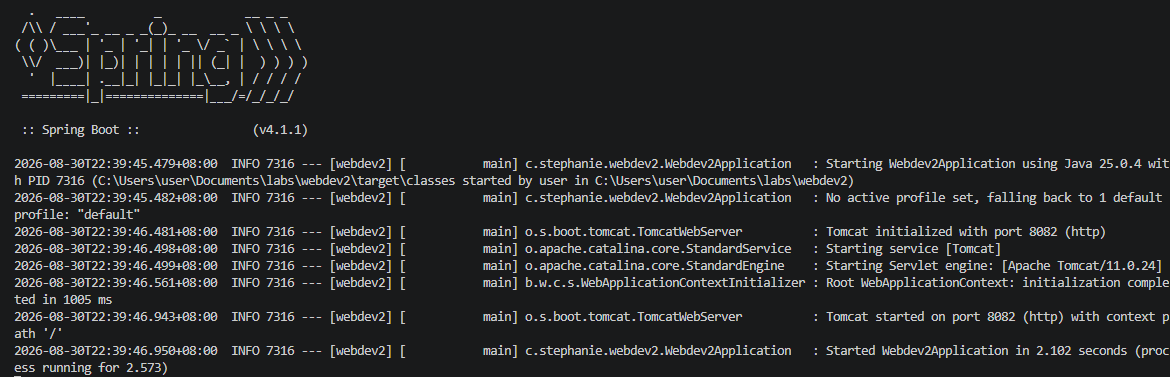
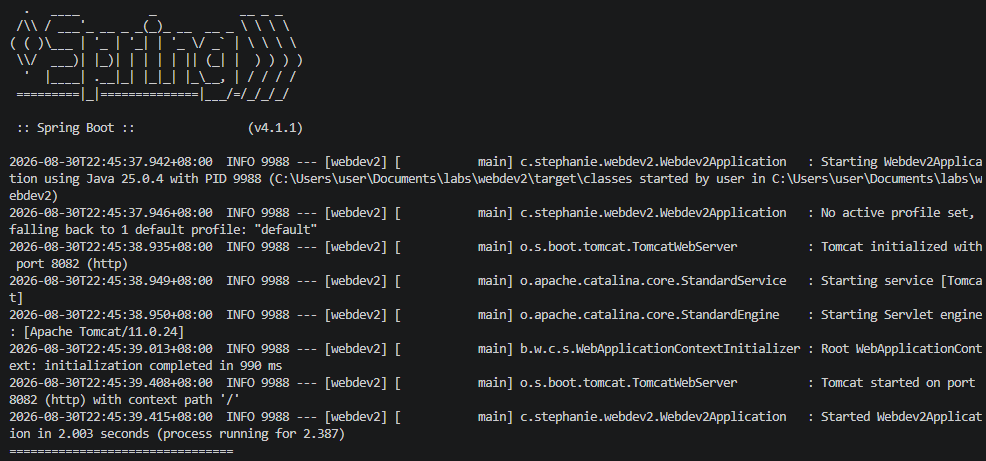
Task 5: add startup product report

Changed region(s): [[0.0, 0.321, 1.0, 0.992], [0.0, 0.0292, 0.3043, 0.2918], [0.2434, 0.2626, 0.3043, 0.2918]]

diff --git a/src/main/java/com/stephanie/webdev2/AppRunner.java b/src/main/java/com/stephanie/webdev2/AppRunner.java
@@ -1,0 +1,39 @@
+package com.stephanie.webdev2;
+
+import java.util.List;
+
+import org.springframework.boot.CommandLineRunner;
+import org.springframework.stereotype.Component;
+
+@Component
+public class AppRunner implements CommandLineRunner {
+
+    private final ProductService productService;
+
+    public AppRunner(ProductService productService) {
+        this.productService = productService;
+    }
+
+    @Override
+    public void run(String... args) throws Exception {
+        double threshold = 5000;
+        List<Product> filteredProducts = productService.getProductsGreaterThanPrice(threshold);
+        String currency = productService.getShopProperties().getCurrency();
+        String shopName = productService.getShopProperties().getName();
+
+        System.out.println("================================");
+        System.out.println("       PRODUCT REPORT");
+        System.out.println("================================");
+        System.out.println("Shop: " + shopName);
+        System.out.println("Currency: " + currency);
+        System.out.println();
+        System.out.println("Products above " + currency + " " + (int) threshold + ":");
+        System.out.println();
+
+        for (Product product : filteredProducts) {
+            System.out.println(product.getName() + " - " + currency + " " + (int) product.getPrice());
+        }
+
+        System.out.println("================================");
+    }
+}
